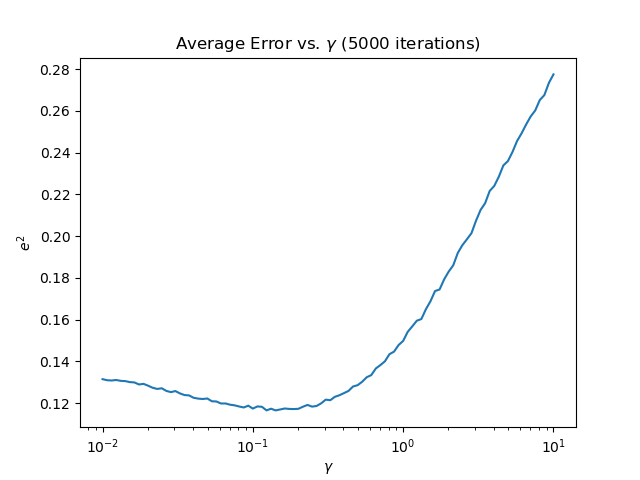
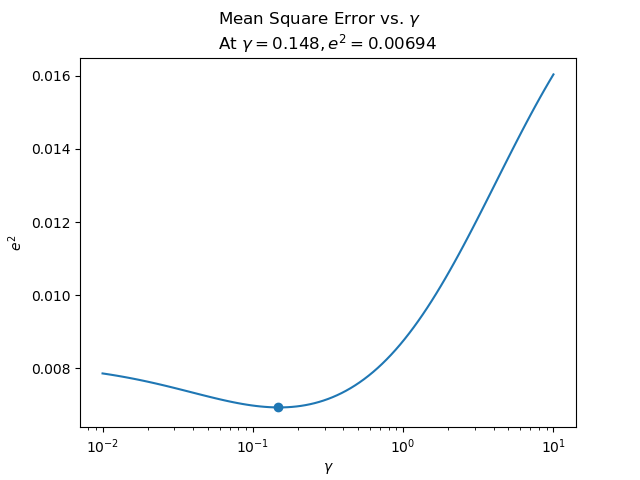
who needs functions

diff --git a/ridgereg.py b/ridgereg.py
@@ -27,90 +27,87 @@ Xtest = np.append(Xtest,np.ones((len(ytest),1)),axis=1).T
 # is a scale of the trace
 #trace = np.trace(K)
 
-def train_calc_error(gamma, Xtrain, ytrain, Xtest, ytest):
+iterations = 500
+ngamma = 100
+
+# values for plotting gamma vs. error, etc.
+gammas = np.zeros((ngamma+1,))
+losses = np.zeros((ngamma+1,))
+errors = np.zeros((ngamma+1,))
+
+# calculate ranges for 80/20 split
+idx=list(range(0,len(ytrain)))
+split=len(idx)*8//10
+
+for i in range(0,iterations):
+	# shuffle the data indexes
+	random.shuffle(idx)
+	# split train and test samples
+	# training portion
+	tr=idx[0:split]
+	Xtr = Xtrain[:,tr]
+	ytr = ytrain[tr]
+	# testing portion
+	te=idx[split:]
+	Xte = Xtrain[:,te]
+	yte = ytrain[te]
 	#
 	# calculate the K (kernel) matrix
-	K = np.matmul(Xtrain.T,Xtrain)
-	# calculate the dual space coefficients
-	alpha = np.matmul(inv(K + gamma*np.eye(len(K))),ytrain)
-	# calculate the weights
-	w = np.matmul(Xtrain,alpha)
-	# calculate the prediction
-	yhat = np.matmul(w.T,Xtest)
-	# calculate error
-	e = ytest - yhat
-	# calculate the error^2
-	e2 = np.dot(e,e)
-	# calculate the loss
-	loss = e2/len(yhat) + gamma*np.dot(w,w)
-	return e2, loss, yhat
+	K = np.matmul(Xtr.T,Xtr)
 
-# for a given gamma, X, and y,
-# split data randomly 80/20 into train and test 
-# calculate the average error, and loss of
-# the trained machine on the test data
-def calc_avg_error(gamma, X, y, iterations):
-	#
-	# split the training data into an 80/20
-	# split between train and test
-	idx=list(range(0,len(y)))
-	split=len(idx)*8//10
+	# vary gamma from 10^-2 to 10^1
+	pmin = -2
+	pmax = 1
+	for j in range(0,ngamma+1):
+		gamma = 10**(j*(pmax-pmin)/ngamma+pmin)
+		gammas[j] = gamma
 
-	etotal = 0
-	losstotal = 0
-	for i in range(0,iterations):
-		# shuffle the data
-		random.shuffle(idx)
-		# determine train and test samples
-		train=idx[0:split]
-		test=idx[split:]
-		Xtrain = X[:,train]
-		ytrain = y[train]
-		Xtest = X[:,test]
-		ytest = y[test]
+		# calculate the dual space coefficients
+		alpha = np.matmul(inv(K + gamma*np.eye(len(K))),ytr)
+		# calculate the weights
+		w = np.matmul(Xtr,alpha)
+		# calculate the prediction
+		yhat = np.matmul(w.T,Xte)
+		# calculate error
+		e = yte - yhat
+		# calculate the error^2
+		e2 = np.dot(e,e)/len(yhat)
+		# calculate the loss
+		loss = e2 + gamma*np.dot(w,w)
 
-		e, loss, yhat = train_calc_error(gamma, Xtrain, ytrain, Xtest, ytest)
-		etotal = etotal + e
-		losstotal = losstotal + loss
+		errors[j] = errors[j] + e2
+		losses[j] = losses[j] + loss
 
-	return etotal/iterations, losstotal/iterations
-
-#
-#
-# keep track of the best
-# value for gamma
-beste = 1e6;
-gammas = []
-losses = []
-errors = []
-
-iterations = 5000
-
-# vary gamma from 10^-2 to 10^1
-for p in np.linspace(-2,1,num=100):
-	gamma = 10**p
-
-	e2,loss = calc_avg_error(gamma, Xtrain, ytrain, iterations)
-
-	# save values for plots
-	gammas.append(gamma)
-	errors.append(e2)
-	losses.append(loss)
-
-	# keep track of the best values
-	if (e2 < beste):
-		beste = e2
-		bestgamma = gamma
+# now find the lowest error/gamma
+lowe = np.inf
+errors = errors / iterations
+losses = losses / iterations
+for i in range(0,len(gammas)):
+	if (errors[i] < lowe):
+		lowe = errors[i]
+		gamma = gammas[i]
 
 # we know the best gamma, so build a machine from
 # entire training set and test
-e2, loss, yhat = train_calc_error(bestgamma, Xtrain, ytrain, Xtest, ytest)
+# calculate the K (kernel) matrix
+K = np.matmul(Xtrain.T,Xtrain)
+# calculate coefficients
+alpha = np.matmul(inv(K + gamma*np.eye(len(K))),ytrain)
+w = np.matmul(Xtrain,alpha)
+# now test it against the full test set
+yhat = np.matmul(w.T,Xtest)
+e = ytest - yhat
+e2 = np.dot(e,e)/len(ytest)
 
 plt.plot(gammas,errors,label="Error")
+#plt.plot(gammas,losses,label="Loss")
+plt.scatter([gamma],[lowe])
 plt.xlabel("$\gamma$")
 plt.ylabel("$e^2$")
 plt.xscale(value="log")
-plt.title("Average Error vs. $\gamma$ (%d iterations)"%(iterations))
+#plt.legend()
+plt.suptitle("Mean Square Error vs. $\gamma$")
+plt.title("At $\gamma=%.3f, e^2=%.3g$"%(gamma,lowe))
 plt.show()
 
 time = list(range(0,len(yhat)))
@@ -118,5 +115,5 @@ plt.plot(time,ytest,label="$y_{test}$")
 plt.plot(time,yhat,label="$\hat{y}$")
 plt.xlabel("Time")
 plt.legend()
-plt.title("Real vs. Predicted ($\gamma=%.3f,e^2=%.2f$)"%(bestgamma,e2))
+plt.title("Real vs. Predicted ($\gamma=%.3f,e^2=%.3g$)"%(gamma,e2))
 plt.show()
